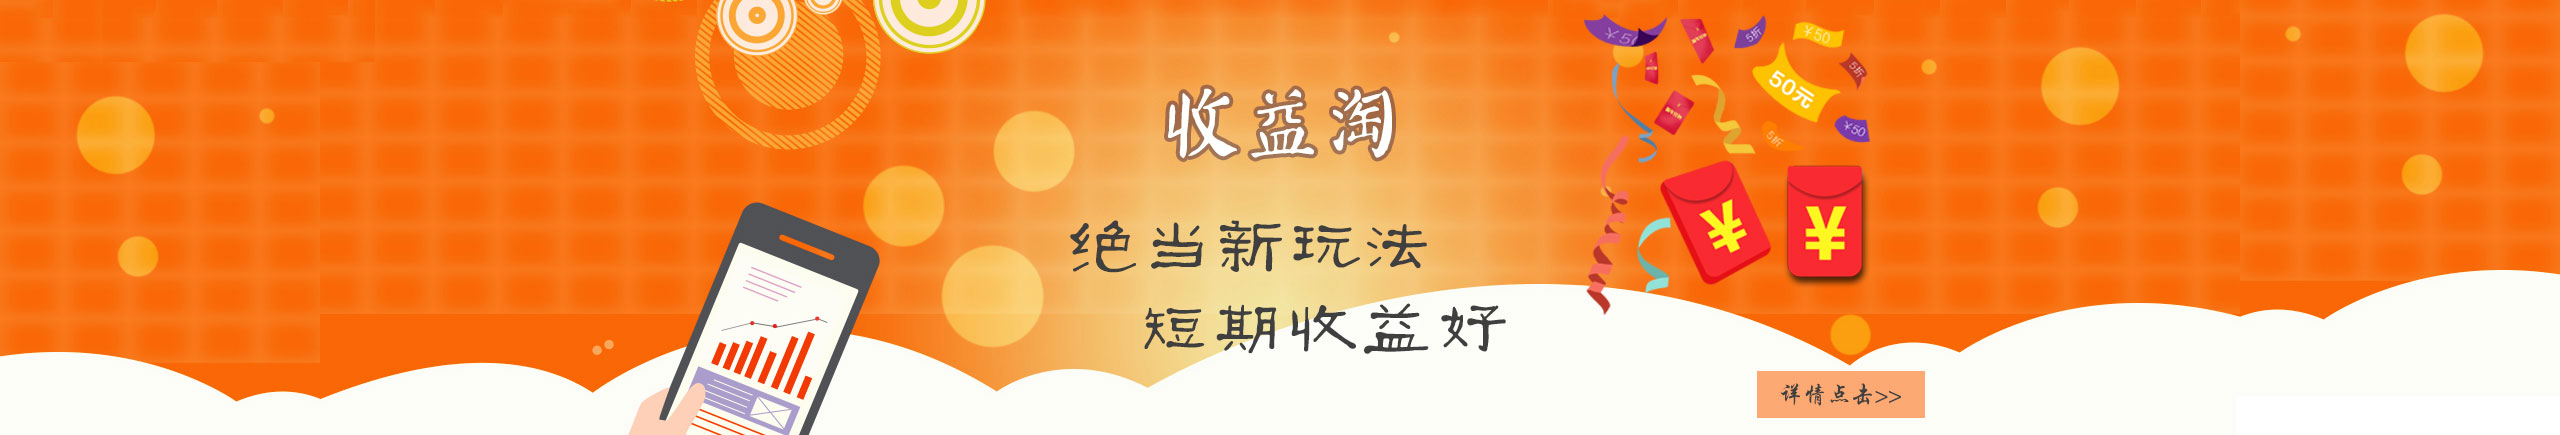
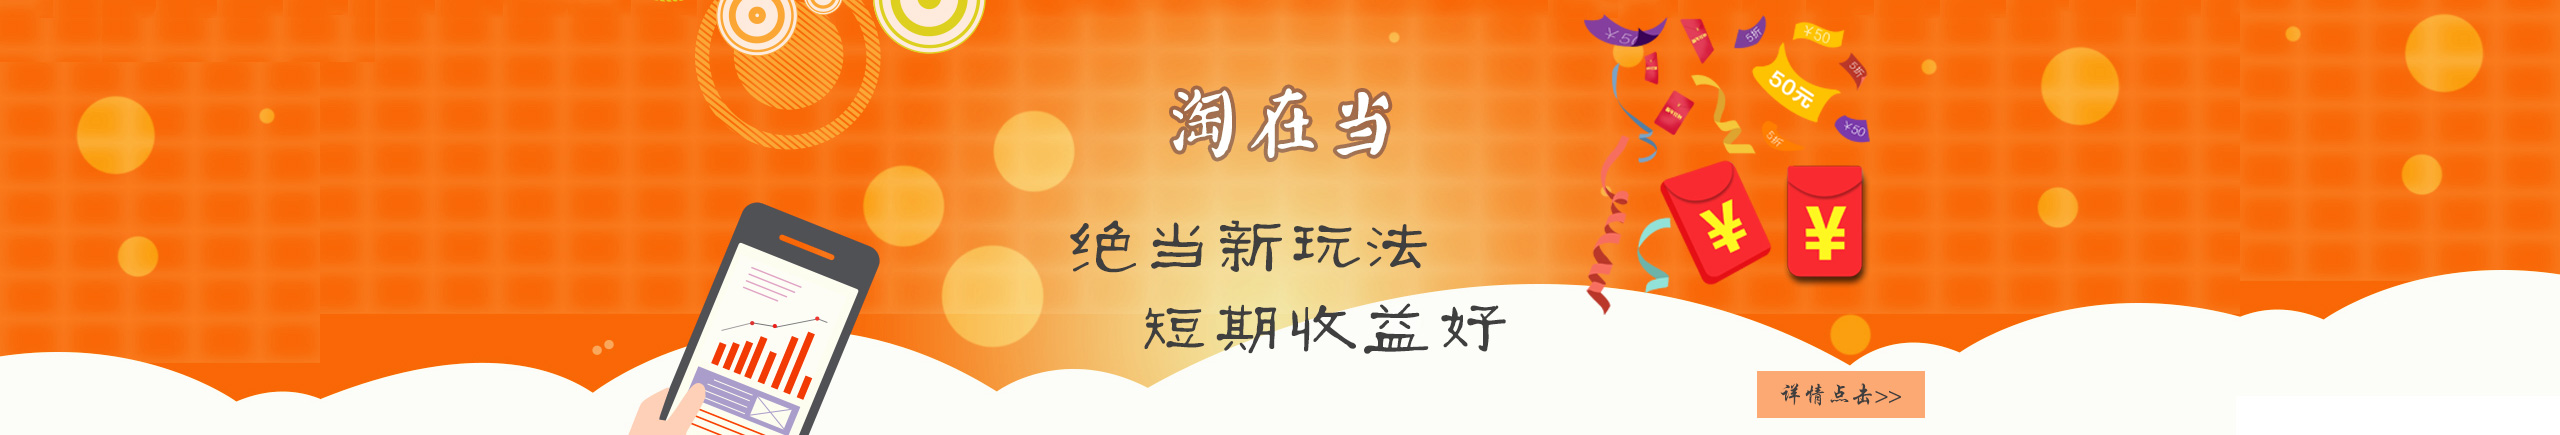
new

Changed region(s): [[0.4375, 0.1793, 0.5625, 0.3885]]

diff --git a/src/main/webapp/resources/zhongxinkeji/shouyitao/shouyitao.html b/src/main/webapp/resources/zhongxinkeji/shouyitao/shouyitao.html
@@ -23,7 +23,7 @@
 </div>
 <!-- content -->
 <div class="content">
-    <a href="#" class="banner" style="background:url(../img/banner6.jpg) no-repeat center center;"></a>
+    <a href="#" class="banner" style="background:url(../img/banner7.jpg) no-repeat center center;"></a>
 
     <div class="substance">
         <div class="title">
